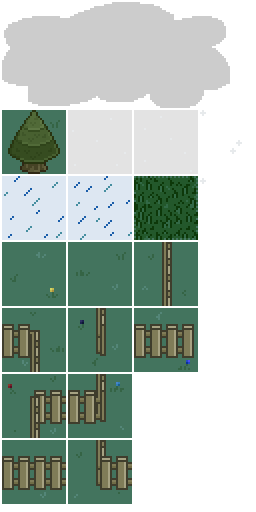
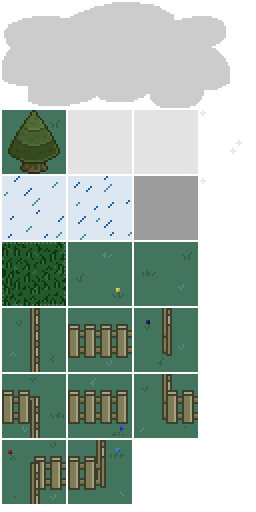
Added overcast layer

diff --git a/weatheraware/Classes/view/Main Scene/WeatherLayer.m b/weatheraware/Classes/view/Main Scene/WeatherLayer.m
@@ -38,18 +38,18 @@ const static int kMoveTag = 2352387;
             _filename = @"Rain128.png";
             _altFilename = @"RainAlt128.png";
             break;
-        case eClouds:
+        case eSunny:
             _filename = @"Cloud512x256.png";
             break;
         case eSnow:
             _filename = @"Snow128.png";
             _altFilename = @"SnowAlt128.png";
             break;
-        default:
-            
+        case eClouds:
+            _filename = @"Overcast128.png";
             break;
     }
-    
+
     _weatherSprites = [[NSMutableArray alloc] init];
     
     if (_currentCondition == eRain)
@@ -59,6 +59,14 @@ const static int kMoveTag = 2352387;
     else if (_currentCondition == eSnow)
     {
         [self initSnow];
+    }
+    else if (_currentCondition == eSunny)
+    {
+        [self initSunny];
+    }
+    else if (_currentCondition == eClouds)
+    {
+        [self initClouds];
     }
 
     for (CCSprite* s in _weatherSprites)
@@ -142,6 +150,37 @@ const static int kMoveTag = 2352387;
     }
 }
 
+- (void) initClouds
+{
+    CCSprite* sprite = [CCSprite spriteWithSpriteFrame:[[AssetHandler sharedAssetHandler] getTextureWithName:_filename]];
+    
+    for (int i = 0 ; i < (_winsize.width/[sprite contentSize].width) ; i++)
+    {
+        for (int j = 0 ; j < (_winsize.height/[sprite contentSize].height) ; j++)
+        {
+            [sprite setAnchorPoint:ccp(0, 0)];
+            [sprite setPosition:ccp((i * sprite.contentSize.width), (j * sprite.contentSize.height))];
+            [_weatherSprites addObject:sprite];
+            [self addChild:sprite];
+            sprite = [CCSprite spriteWithSpriteFrame:[[AssetHandler sharedAssetHandler] getTextureWithName:_filename]];
+        }
+    }
+}
+
+- (void) initSunny
+{
+    CCSprite* sprite = [CCSprite spriteWithSpriteFrame:[[AssetHandler sharedAssetHandler] getTextureWithName:_filename]];
+    
+    for (int i = 0 ; i < (_winsize.height / [sprite contentSize].height)/2 ; i++)
+    {
+        [sprite setAnchorPoint:ccp(0, 0)];
+        [sprite setPosition:ccp((_winsize.width + (sprite.contentSize.width * (rand()%6))), ((2 * i) * (sprite.contentSize.height)))];
+        [_weatherSprites addObject:sprite];
+        [self addChild:sprite];
+        sprite = [CCSprite spriteWithSpriteFrame:[[AssetHandler sharedAssetHandler] getTextureWithName:_filename]];
+    }
+}
+
 -(void) update:(CCTime)delta
 {
     if (_currentCondition == eRain)
@@ -152,7 +191,10 @@ const static int kMoveTag = 2352387;
     {
         [self moveSnow];
     }
-
+    else if (_currentCondition == eSunny)
+    {
+        [self moveSunny];
+    }
 }
 
 - (void) moveRain
@@ -220,6 +262,20 @@ const static int kMoveTag = 2352387;
     if (performedActionThisFrame == true)
     {
         _leftwise = (_leftwise == true) ? false : true;
+    }
+}
+
+- (void) moveSunny
+{
+    for (CCSprite* s in _weatherSprites)
+    {
+        if ([s getActionByTag:kMoveTag] == nil)
+        {
+            [s setPosition:ccp(_winsize.width + ([s contentSize].width * (rand()%5)), s.position.y)];
+            CCActionMoveBy *action = [CCActionMoveBy actionWithDuration:25.0f + rand()%8 position:ccp(0.0f - ([s position].x + [s contentSize].width), 0.0f)];
+            [action setTag:kMoveTag];
+            [s runAction:action];
+        }
     }
 }
 

diff --git a/weatheraware/Classes/view/Main Scene/MainScene.m b/weatheraware/Classes/view/Main Scene/MainScene.m
@@ -204,6 +204,11 @@
         _weather = [[WeatherLayer alloc] initWithCondition:eSnow];
         [self addChild:_weather z:2];
     }
+    else if ([condition isEqualToString:@"Clouds"])
+    {
+        _weather = [[WeatherLayer alloc] initWithCondition:eClouds];
+        [self addChild:_weather z:2];
+    }
 }
 
 -(void) tryNextServer

diff --git a/weatheraware/Classes/controller/WeatherController.m b/weatheraware/Classes/controller/WeatherController.m
@@ -56,7 +56,7 @@
         [_delegate tryNextServer];
         return;
     }
-    _condition = @"Snow";//[weatherInfo objectForKey:@"main"];
+    _condition = @"Clouds";//[weatherInfo objectForKey:@"main"];
     
     [_delegate newWeatherCondition:_condition];
 }
